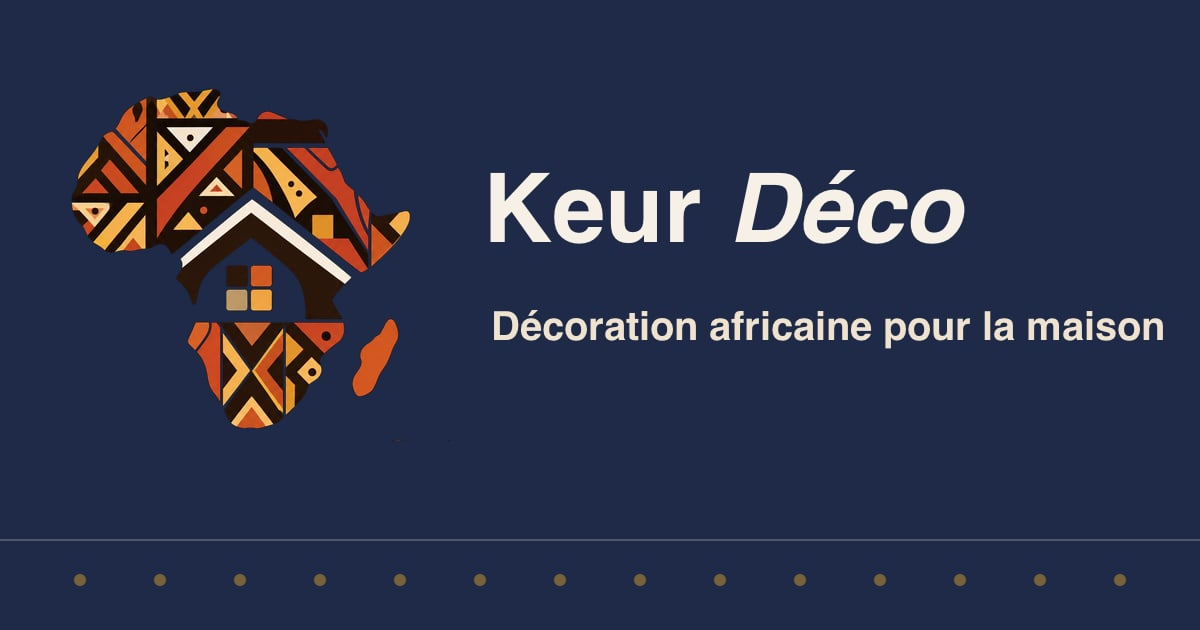
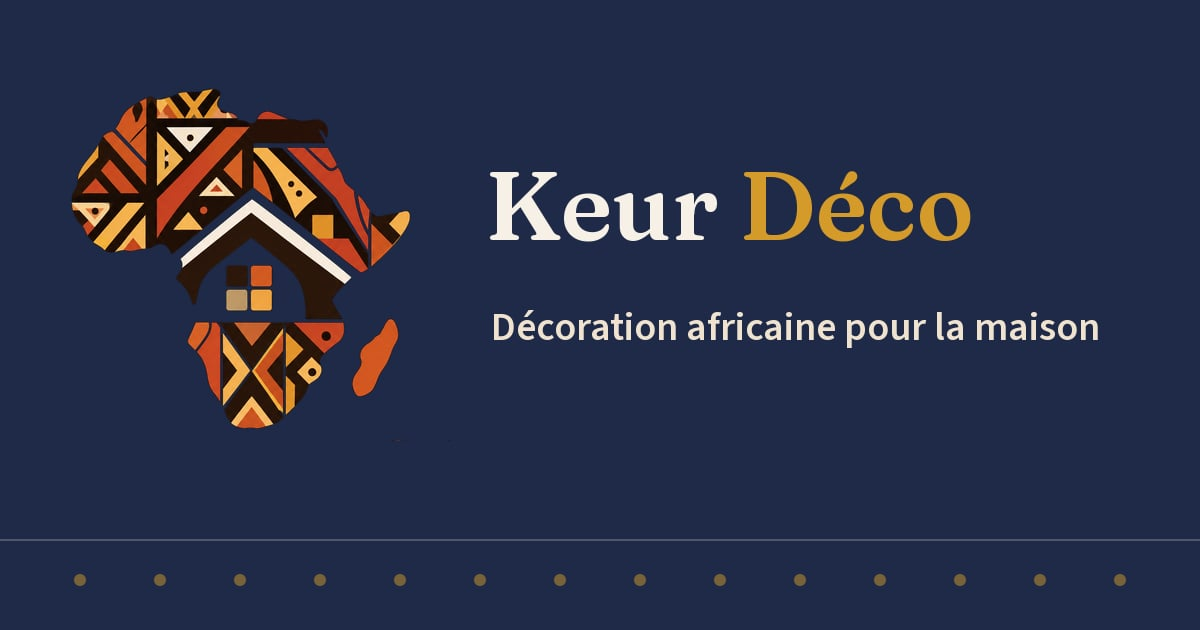
Images générées avec les polices du site sur macOS aussi (fontconfig + Pango) ; image de partage refaite en Fraunces

Changed region(s): [[0.4008, 0.2714, 0.8325, 0.3921], [0.4008, 0.4825, 0.9867, 0.5429]]

diff --git a/scripts/visuels-marque.ts b/scripts/visuels-marque.ts
@@ -92,7 +92,7 @@ async function imagePartage(emblemeSombre: Buffer): Promise<void> {
     <g fill="#D49A2A" fill-opacity=".5">${Array.from({ length: 14 }, (_, i) => `<circle cx="${80 + i * 80}" cy="580" r="6"/>`).join('')}</g>
     <path d="M0 540h1200" stroke="#EFE3D0" stroke-opacity=".25" stroke-width="2"/>
   </svg>`);
-  const titre = await texte('<span foreground="#F7F0E6">Keur <i>Déco</i></span>', 'Fraunces SemiBold 96', POLICE_TITRE, 700);
+  const titre = await texte('<span foreground="#F7F0E6">Keur <span foreground="#D49A2A">Déco</span></span>', 'Fraunces SemiBold 96', POLICE_TITRE, 700);
   const slogan = await texte('<span foreground="#EFE3D0">Décoration africaine pour la maison</span>', 'Source Sans 3 SemiBold 40', POLICE_TEXTE, 700);
   mkdirSync(resolve(RACINE, 'public/images/partage'), { recursive: true });
   await sharp(fond)
